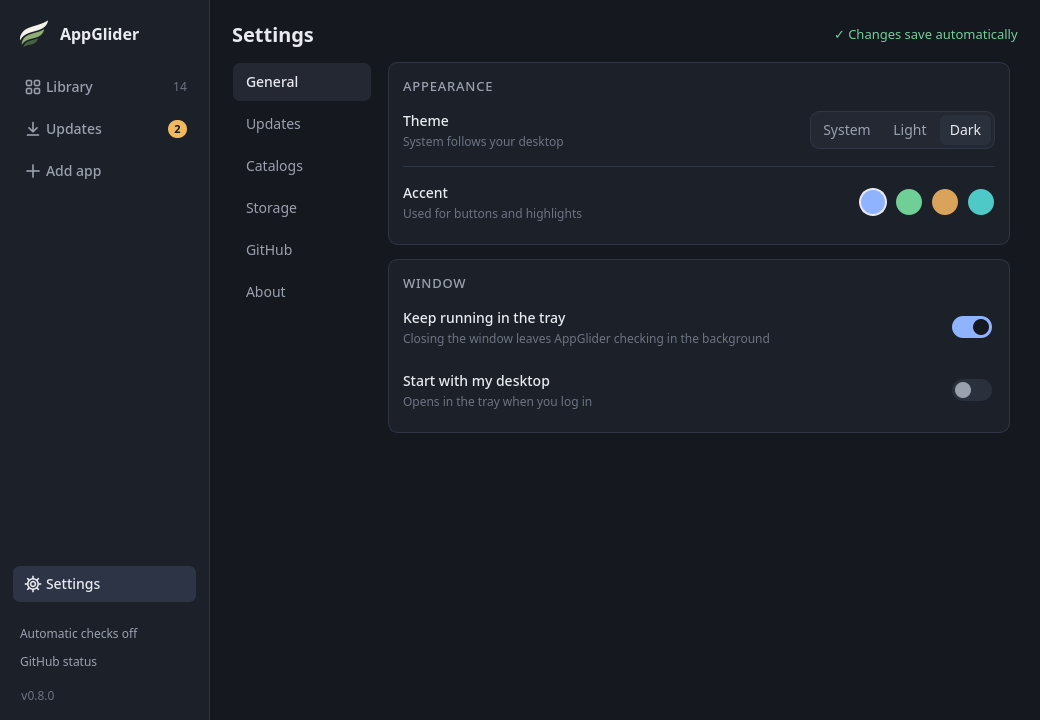
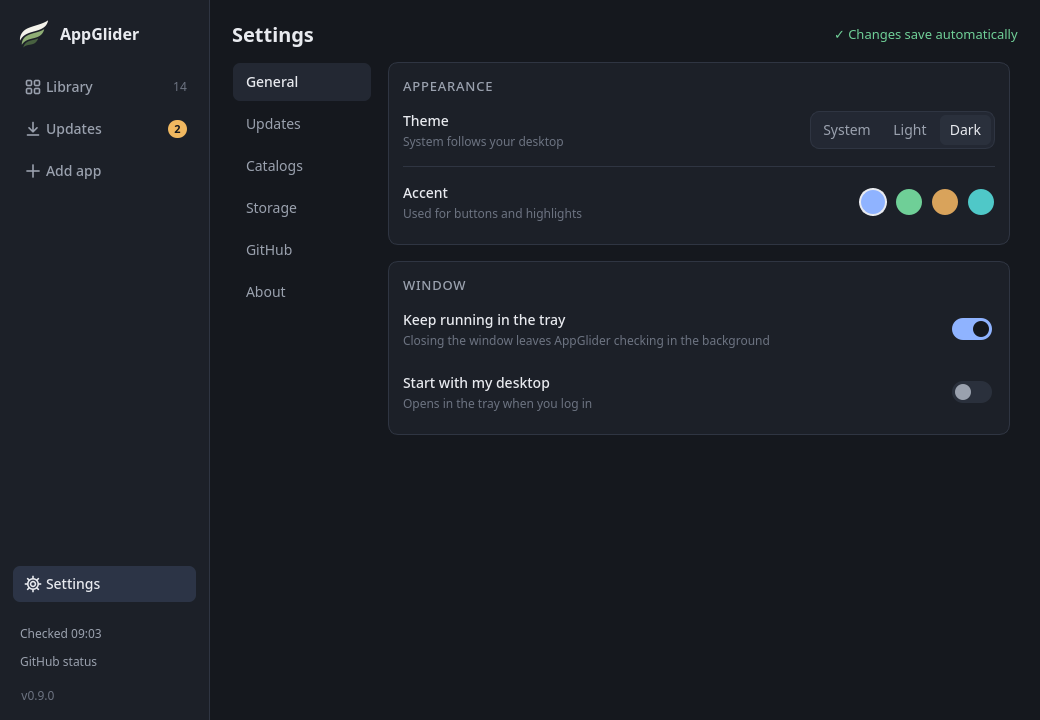
docs: bring the guide and screenshots up to date for 0.9.0
Adds a Storage screenshot with the space used panel and moves shipped roadmap items to Done.

diff --git a/docs/usage.md b/docs/usage.md
@@ -261,10 +261,10 @@ buttons **Launch** and the main action (Install, Update, Choose build or Cancel)
   (**Check now** looks again).
 - **Preferences**: **Release channel**, **Hold at this version**, **Pin to top**, **Build**,
   **Icon** and **Menu shortcut** (**Repair**). Changes apply immediately.
-- **Manage** (in red): **Roll back**, **Uninstall…** and **Remove…** from the library.
-  Each asks before it does anything. Uninstalling keeps your documents and the app's own
-  settings. An app must be uninstalled before it can be removed from the library, and
-  removing it deletes no files.
+- **Manage** (in red): **Roll back** when there is a kept copy, then **Uninstall…** while the
+  app is installed or **Remove…** from the library once it is not. Each asks before it does
+  anything. Uninstalling keeps your documents and the app's own settings. Removing an app
+  from the library deletes no files.
 
 ## Choosing a build
 
@@ -346,7 +346,7 @@ page says "Changes save automatically".
 - **Updates**: how often to check for updates, and whether to **Notify me about new
   updates**.
 - **Catalogs**: import a catalog, add the example catalog, or export your own.
-- **Storage**: the folder new apps are installed into.
+- **Storage**: the folder new apps are installed into, and the space your apps use.
 - **GitHub**: how many requests GitHub reports as remaining (no requests are made).
 - **About**: the version, **Check now** for a new AppGlider version, and project links.
 
@@ -356,8 +356,19 @@ page says "Changes save automatically".
 changes as you pick, so you can try them out. If you used the older Forest, Earthy or
 Sandstone themes, AppGlider now shows them as Dark with a Green or Amber accent.
 
-Changing the install folder (under **Storage**) only affects new installs. Apps you already installed stay where
-they are and keep updating there. The new folder is used once you finish typing it or choose it with **Browse…**.
+Changing the install folder (under **Storage**) only affects new installs. Apps you already
+installed stay where they are and keep updating there. The new folder is used once you finish
+typing it or choose it with **Browse…**.
+
+**Space used.** Below the folder, **Storage** shows how much disk space your installed apps
+take, and how much is free on that drive. One bar splits the total into **In use**, the
+versions you run (solid), and **Kept for roll back**, the earlier copies (striped). Below it
+every installed app is listed, largest first, with its own bar. The panel only shows
+numbers. It has no delete buttons: each app keeps just one earlier version, and an update
+replaces it, so the space does not keep growing. The sizes are the app files themselves, not
+the documents or settings the apps keep for themselves.
+
+![Settings, Storage section with the space used by each app](previews/appglider-storage.png)
 
 ## The tray icon
 
@@ -399,7 +410,7 @@ own entry is removed too, so no dead entry is left behind.
 
 **⋯ → Uninstall…** removes the app and its menu entries. Your documents and the app's
 own settings stay. You cannot uninstall an app while it is running. To remove an app from
-the list as well, uninstall it first, then use **Remove…** under **Manage** on its page.
+the list as well, uninstall it first. Its page then offers **Remove…** under **Manage**.
 
 ## If something goes wrong
 

diff --git a/docs/roadmap.md b/docs/roadmap.md
@@ -7,14 +7,6 @@ change after discussion. Something being listed here is not a promise that it wi
 
 - **Install queue:** line up several installs or updates, with clear progress and a way to
   cancel.
-- **AppGlider updating itself:** check for new versions of AppGlider, show what changed and
-  offer an update button. Today you update AppGlider by downloading the new AppImage.
-- **Space used:** a read-only panel in Settings → Storage showing how much space your apps
-  use, split into the versions in use and the copies kept for roll back (striped), with
-  every installed app listed largest first. It has no delete buttons: each app keeps only one
-  earlier version and updating replaces it, so the space cannot keep growing.
-- **A tidier Manage area:** an app page shows Uninstall while the app is installed and
-  Remove from library once it is not, instead of both with one greyed out.
 
 ## Under discussion
 
@@ -24,6 +16,18 @@ change after discussion. Something being listed here is not a promise that it wi
 
 ## Done
 
+- **AppGlider updating itself:** AppGlider checks for new versions of itself, shows a banner
+  with what changed and offers **Update AppGlider**. It downloads and checks the new file,
+  points the menu entry at it and offers **Restart now**. The replaced file is removed for
+  you. **Settings → About** has **Check now**.
+- **Space used:** a read-only panel in Settings → Storage shows how much space your apps use,
+  split into the versions in use and the copies kept for roll back (striped), with every
+  installed app listed largest first. It has no delete buttons: each app keeps only one
+  earlier version and updating replaces it, so the space cannot keep growing.
+- **A tidier Manage area:** an app page shows Uninstall while the app is installed and
+  Remove from library once it is not, instead of both with one greyed out.
+- **Update information for other tools:** the AppImage carries update information and each
+  release includes a `.zsync` file, so tools such as AppImageUpdate can update it.
 - **A new interface:** a sidebar (Library, Updates, Add app, Settings) with a status block,
   apps as rows with status chips, an updates banner with **Update all**, and a page for each
   app with its release notes, versions, preferences and a Manage area. Settings and Add app

diff --git a/docs/design.md b/docs/design.md
@@ -28,6 +28,9 @@ confirmations, file pickers and choices that block an action (such as choosing a
 ```
 ┌──────────────┬─────────────────────────────────────────────┐
 │ ◢ AppGlider  │ Page title   [Search……………] [⋯] [⟳]           │
+│              │ ┌ AppGlider banner (new version, accent)  ┐ │
+│              │ │ AppGlider 0.9.1 is available [Update]   │ │
+│              │ └─────────────────────────────────────────┘ │
 │              │ ┌ updates banner (only when updates wait) ┐ │
 │ ▣ Library 12 │ │ 2 updates ready.        [Update all]    │ │
 │ ↓ Updates  2 │ └─────────────────────────────────────────┘ │
@@ -61,6 +64,12 @@ confirmations, file pickers and choices that block an action (such as choosing a
   Storage also has a read-only Space used panel: the total, one bar split into the versions
   in use and the copies kept for roll back, and every installed app largest first with its
   own bar. It has no actions.
+
+The AppGlider banner shows when a new version of AppGlider is out. It sits above the amber
+updates banner on Library and Updates, tinted in the accent colour, with a "What's new ↗"
+link and one normal-style button (Update AppGlider, Restart now or Releases on GitHub ↗).
+AppGlider is never a row. Settings → About has a row with the version, a hint with the result
+of the last check and a Check now button.
 
 Space bars have no track behind them, so no part reads as free space. The version in use
 is solid accent; the kept copy is accent stripes, so the two differ by pattern as well as

diff --git a/docs/development.md b/docs/development.md
@@ -37,12 +37,13 @@ The interface is one main window with a sidebar and stacked pages, all in `src/a
 
 | Module | Responsibility |
 | --- | --- |
-| `window.py` | Main window: sidebar, Library and Updates pages, tray |
+| `window.py` | Main window: sidebar, Library and Updates pages, banners, tray |
+| `self_update.py` | Check for, download and install new AppGlider versions; remove the replaced image |
 | `rows.py` | Library row widgets, status chips and drag reordering |
 | `theme.py` | Colour tokens, palette, stylesheet and the painted sidebar icons |
 | `app_page.py` | App page: release notes, versions, preferences, Manage; shared panel and setting-row helpers |
 | `app_status.py` | The status chip and main action of an app, from its install and release state |
-| `settings_page.py` | Settings page and its six sections (instant apply) |
+| `settings_page.py` | Settings page and its six sections (instant apply), including Space used |
 | `add_page.py` | Add app page: inspect a repository, choose build and icon, add |
 | `controls.py` | Switch and segmented controls |
 | `preferences.py` | Theme, accent and update-check choices, migration of retired themes, pinned apps, custom order and seen update notices |
@@ -120,7 +121,7 @@ Review these files together when updating the runtime:
 | --- | --- |
 | `packaging/build-requirements.txt` | Build-tool version |
 | `packaging/runtime-requirements.txt` | Bundled Python dependencies |
-| `packaging/downloads.json` | Python AppImage, packaging tool and runtime hashes |
+| `packaging/downloads.json` | Python AppImage (Python 3.13.17), packaging tool and runtime hashes |
 | `packaging/ubuntu-libs.json` | Bundled X11 library downloads and hashes |
 
 Some upstream tool URLs use mutable `continuous` releases. A changed download fails the

diff --git a/README.md b/README.md
@@ -23,7 +23,8 @@ made up.*
   A banner offers **Update all**, and a badge appears on its tray icon when something is
   waiting.
 - Checks each download against the checksum the project published before installing.
-- Keeps the previous version so you can roll back if an update misbehaves.
+- Keeps the previous version so you can roll back if an update misbehaves, and shows how
+  much space your apps and those kept copies use.
 - Lets you choose stable releases only, or try previews, for each app, and read the release
   notes on the app's own page before you update.
 - Can hold an app at its current version so it is never offered an update.
@@ -33,6 +34,8 @@ made up.*
 - Can show a desktop notification when new updates are found (off unless you turn it on).
 - Shares lists of apps as plain text files you can read, edit and import
   (see [catalogs](docs/usage.md#catalogs-sharing-a-list-of-apps)).
+- Looks for new versions of AppGlider itself and, when you agree, downloads and checks the
+  new file for you.
 - Follows your desktop's light or dark setting, or choose Light or Dark and one of four
   accent colours (Blue, Green, Amber or Teal).
 
@@ -52,7 +55,8 @@ already taken. Version 0.4.0 and later start with a fresh library and settings.
 
 Keep the file somewhere permanent, such as `~/Applications`. AppGlider adds a menu entry
 that points at it. If you move the file, start it once from its new place and the entry is
-repaired.
+repaired. When a new version of AppGlider is out, it offers to download it next to the old
+file and removes the old file after you switch.
 
 **What you need:** a 64-bit (x86_64) Linux desktop that is about as new as Ubuntu 22.04 or
 newer (technically, glibc 2.35 or newer). That covers current Ubuntu, Linux Mint, Fedora,

diff --git a/docs/builds.md b/docs/builds.md
@@ -67,7 +67,8 @@ the job uses GitHub's workflow token.
 Test the AppImage on a real desktop, review the draft's notes, then choose **Publish release**.
 Ordinary branch pushes, pull requests and manual builds do not create releases.
 An existing release for the same tag is not overwritten; creating it again fails.
-Automatic AppGlider self-updates are separate work.
+AppGlider's own update button reads the published release, so publish the draft before
+expecting anyone to be offered the new version.
 
 ## References
 
